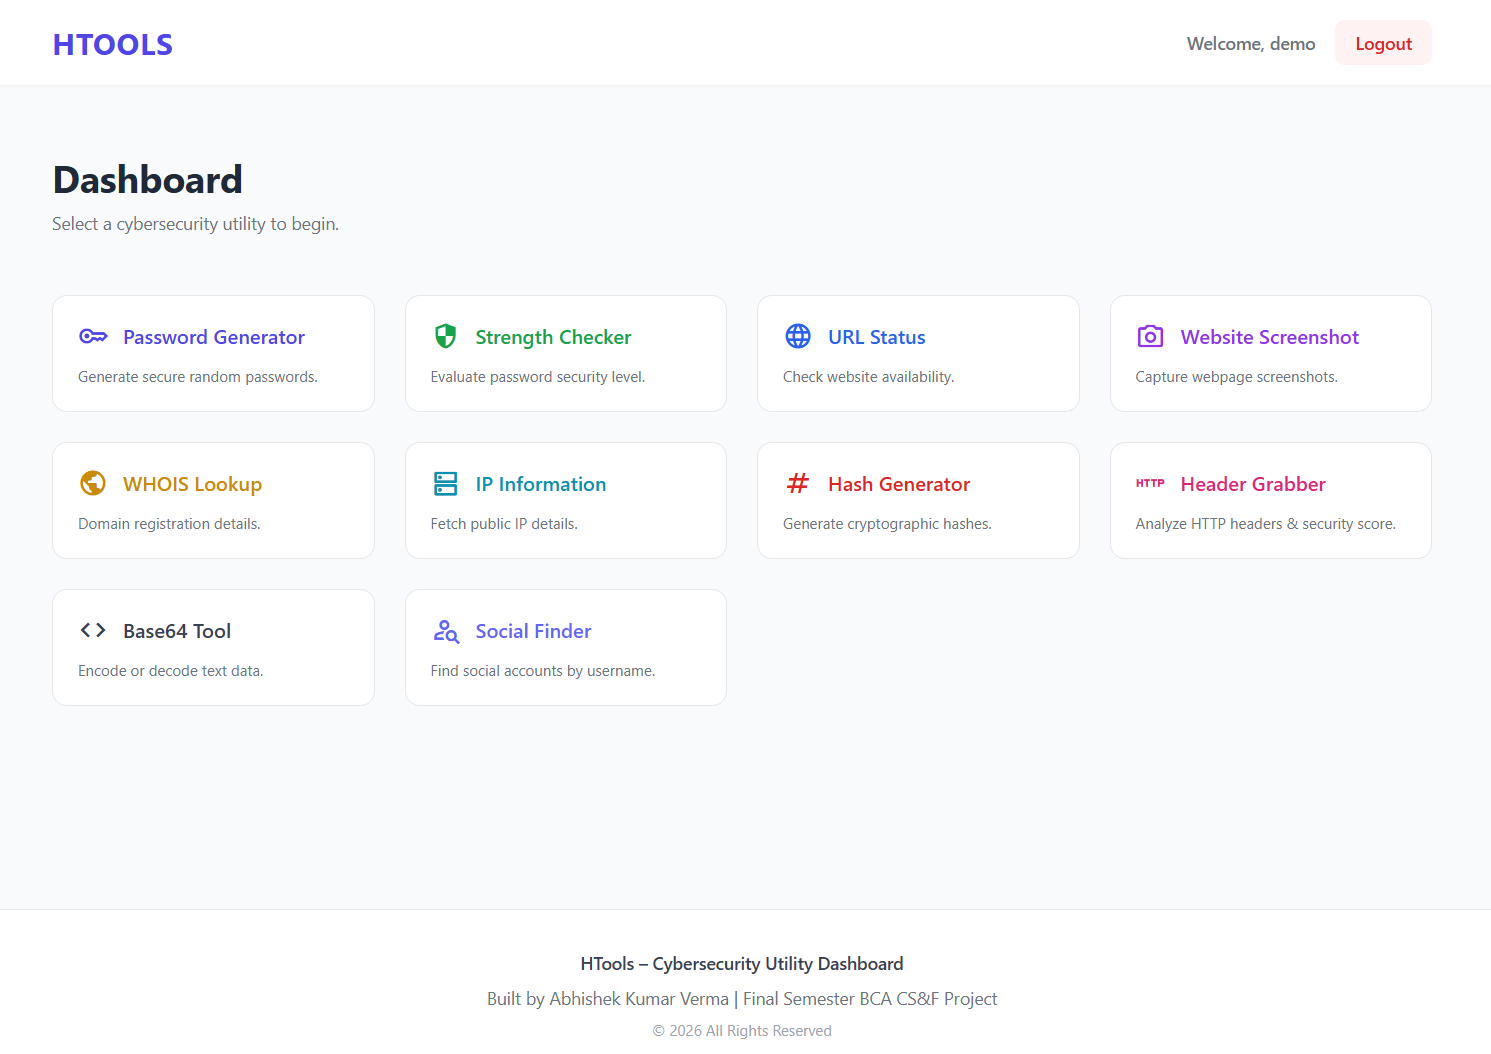
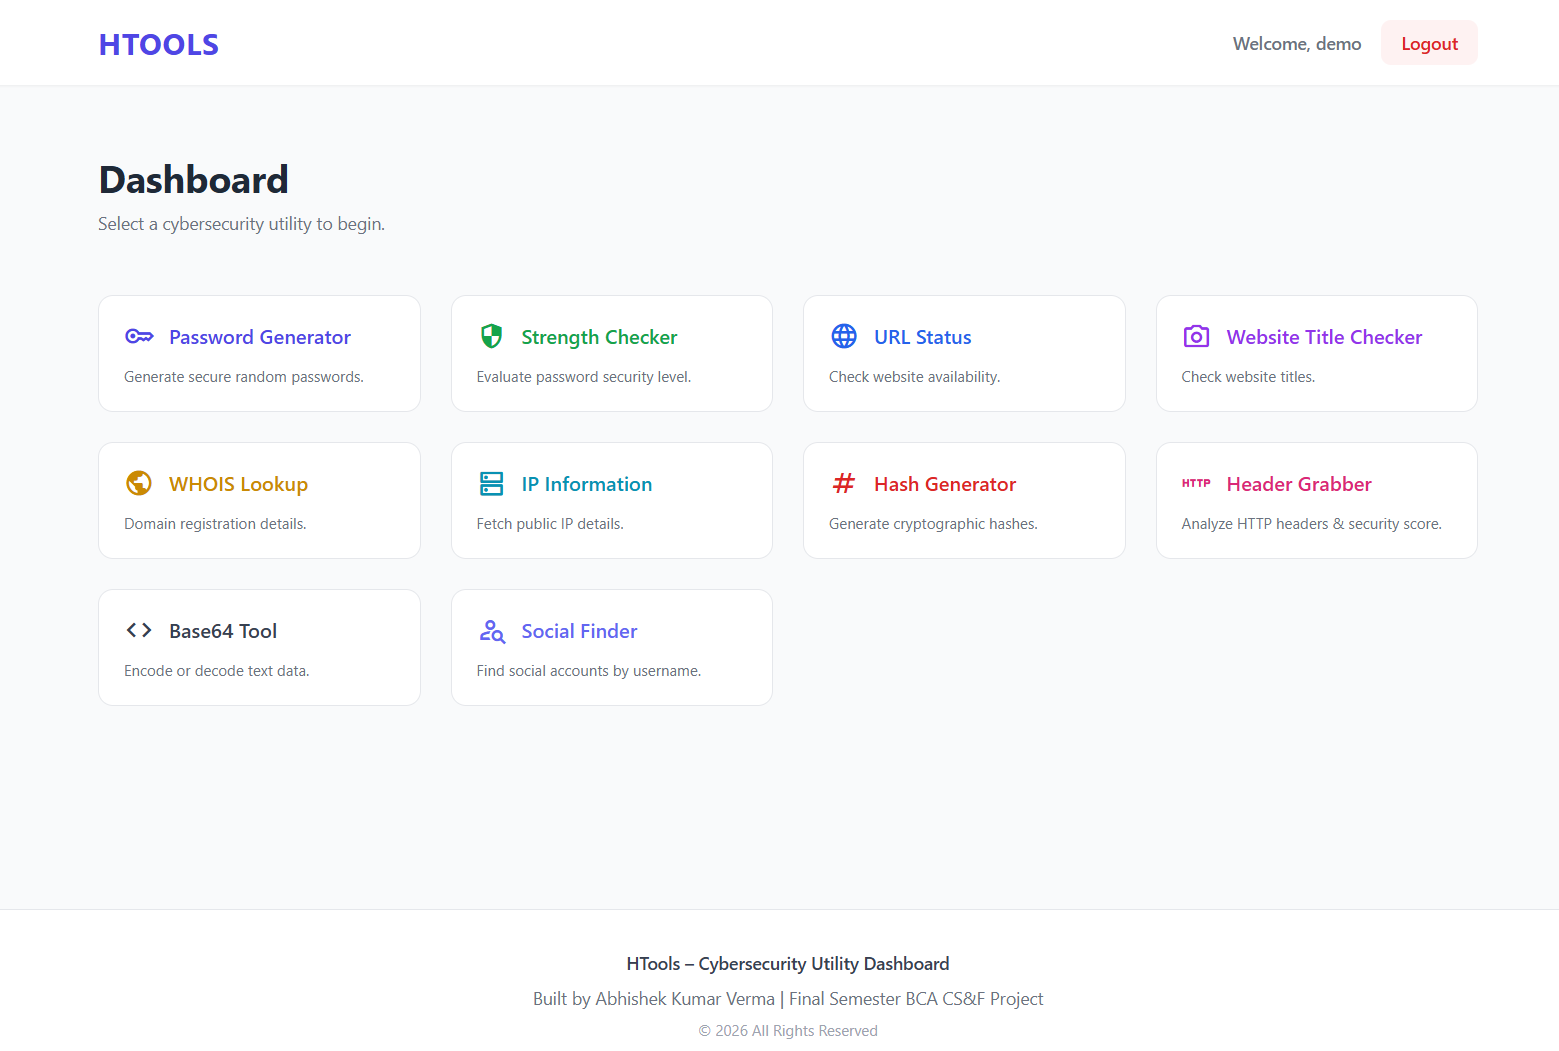
Update website title checker

diff --git a/htools_source_code/htools/home/templates/home/dashboard.html b/htools_source_code/htools/home/templates/home/dashboard.html
@@ -54,10 +54,10 @@
         <a href="{% url 'web_screenshot:index' %}" class="bg-white border rounded-xl p-5 hover:shadow-md transition">
             <div class="flex items-center gap-3 mb-3 text-purple-600">
                 <span class="material-symbols-outlined">photo_camera</span>
-                <h3 class="font-medium">Website Screenshot</h3>
+                <h3 class="font-medium">Website Title Checker</h3>
             </div>
             <p class="text-xs text-gray-500">
-                Capture webpage screenshots.
+                Check website titles.
             </p>
         </a>
 

diff --git a/htools_source_code/htools/web_screenshot/templates/web_screenshot/checker.html b/htools_source_code/htools/web_screenshot/templates/web_screenshot/checker.html
@@ -6,10 +6,10 @@
     <!-- Heading -->
     <div class="mb-10">
         <h2 class="text-3xl font-bold text-gray-800 mb-2">
-            Website Screenshot Checker
+            Website Title Checker
         </h2>
         <p class="text-gray-500 text-sm">
-            Analyze website status and retrieve basic response details.
+            Check the title of a website by entering its URL.
         </p>
     </div>
 
